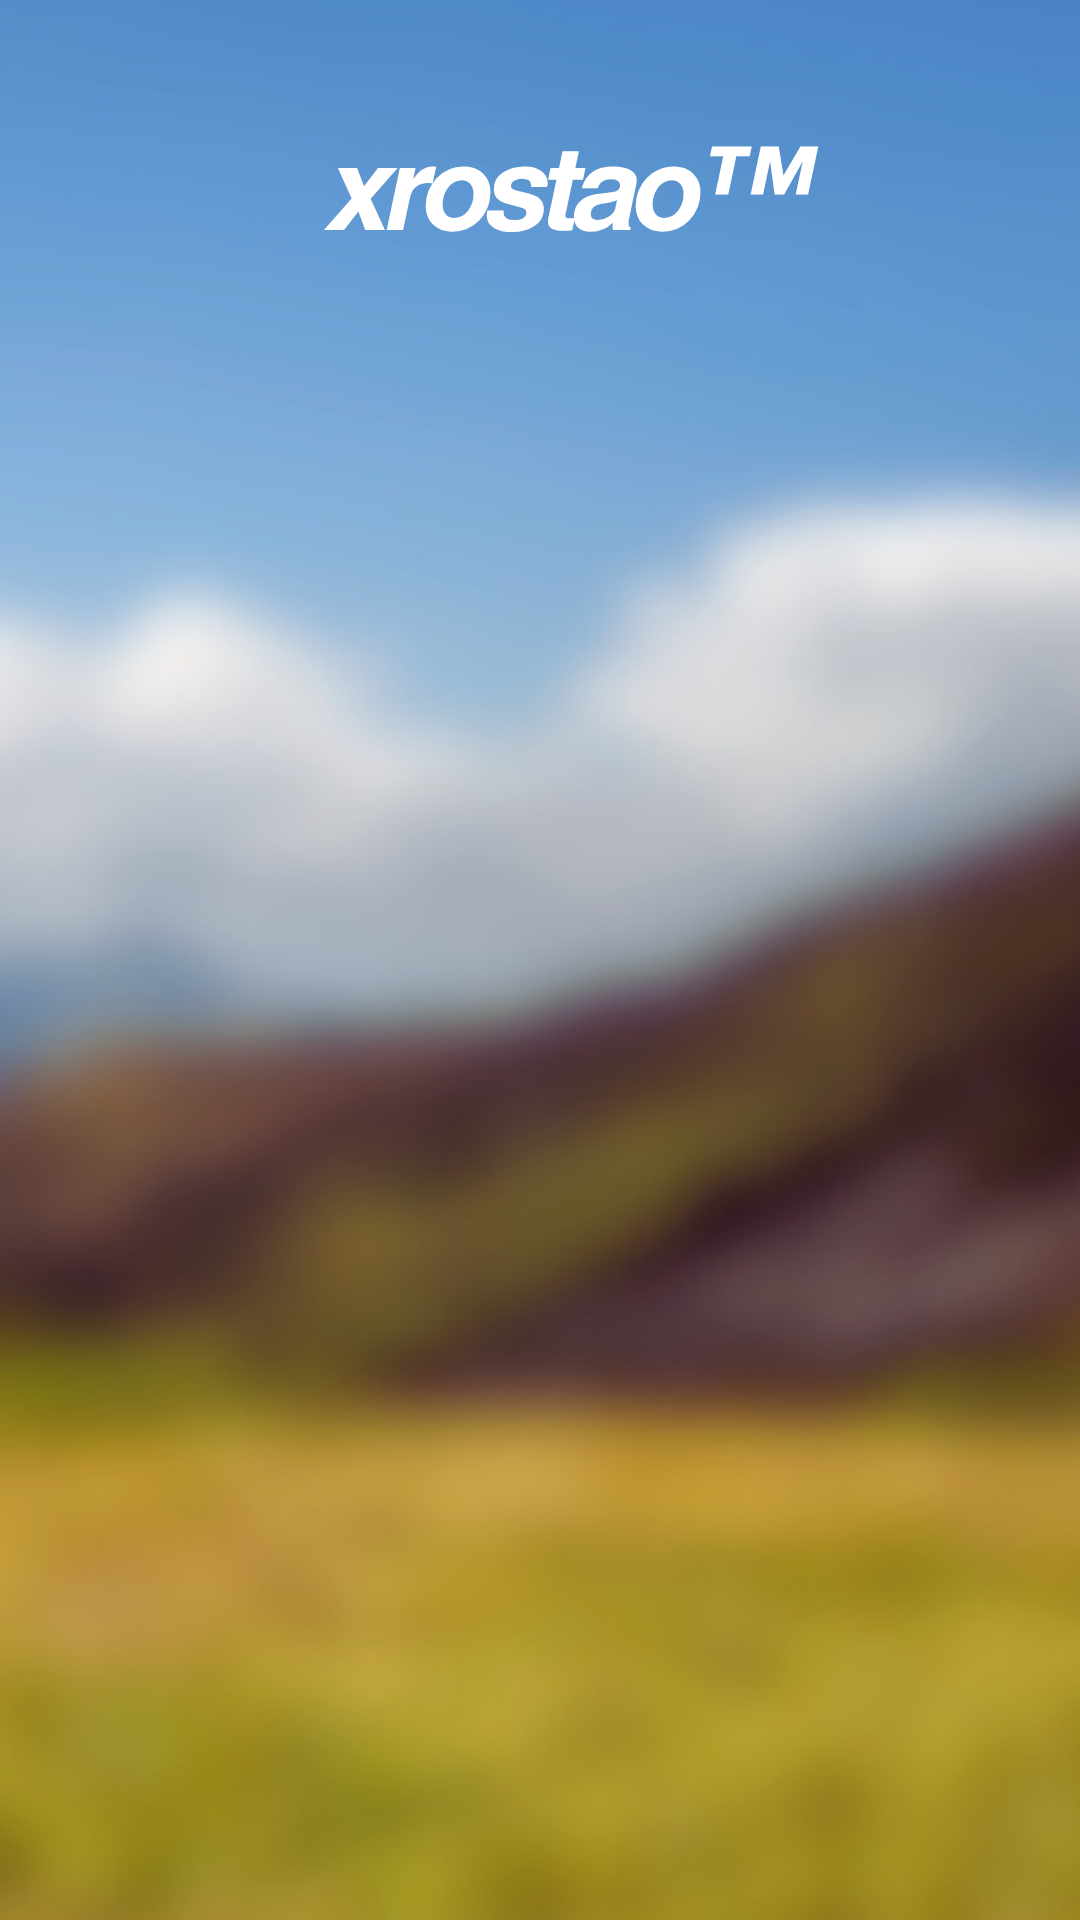
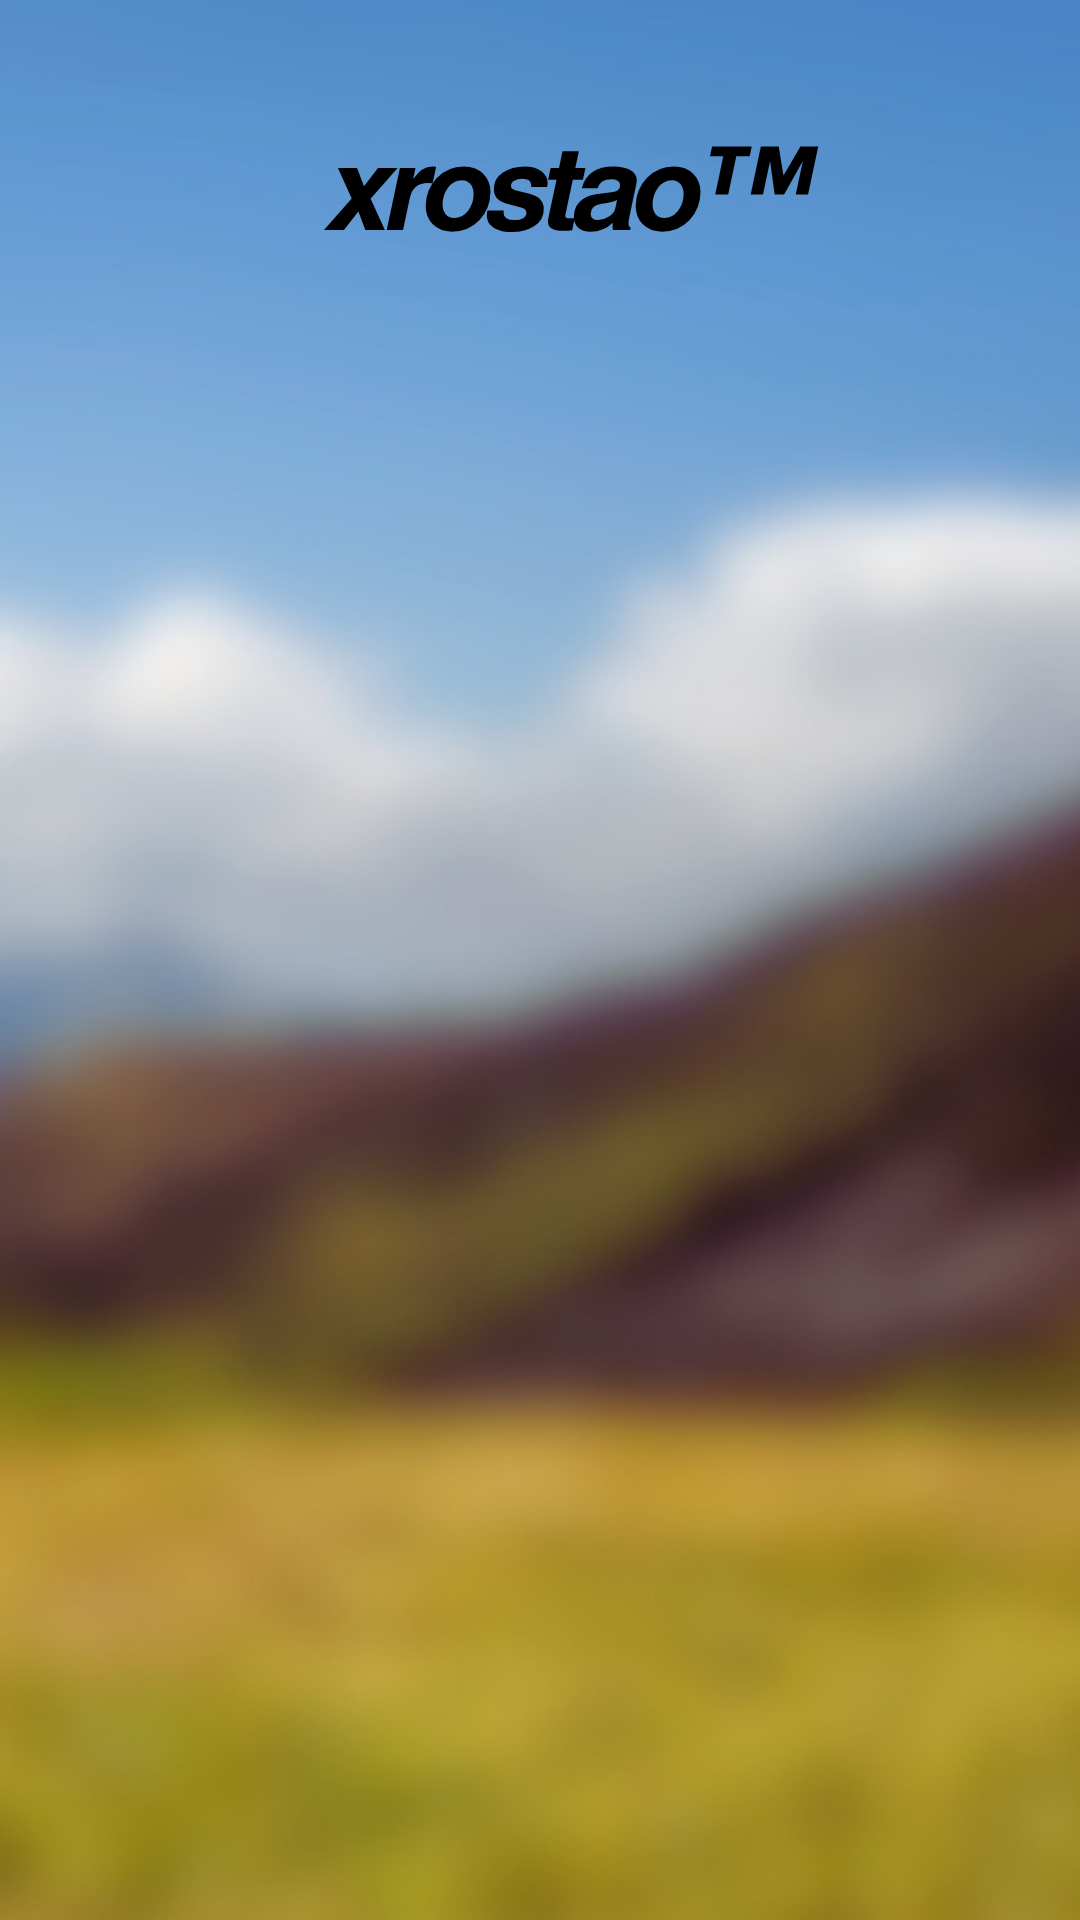
Decrease Anergia Drop grid size by half on desktop and push user image folder changes

Changed region(s): [[0.3056, 0.0625, 0.7639, 0.125]]

diff --git a/src/pages/AnergiaDrop.tsx b/src/pages/AnergiaDrop.tsx
@@ -22,9 +22,9 @@ export default function AnergiaDrop() {
         />
       </picture>
 
-      <div className="relative z-10 w-full max-w-3xl mx-auto flex flex-col items-center">
+      <div className="relative z-10 w-full max-w-[280px] md:max-w-lg mx-auto flex flex-col items-center">
         {/* The grid of 11 items */}
-        <div className="w-full grid grid-cols-1 md:grid-cols-3 gap-4 md:gap-6 mt-8">
+        <div className="w-full grid grid-cols-1 md:grid-cols-3 gap-2 md:gap-3 mt-8">
           {PRODUCTS.slice(0, 11).map((product) => (
             <Link 
               key={product.id} 